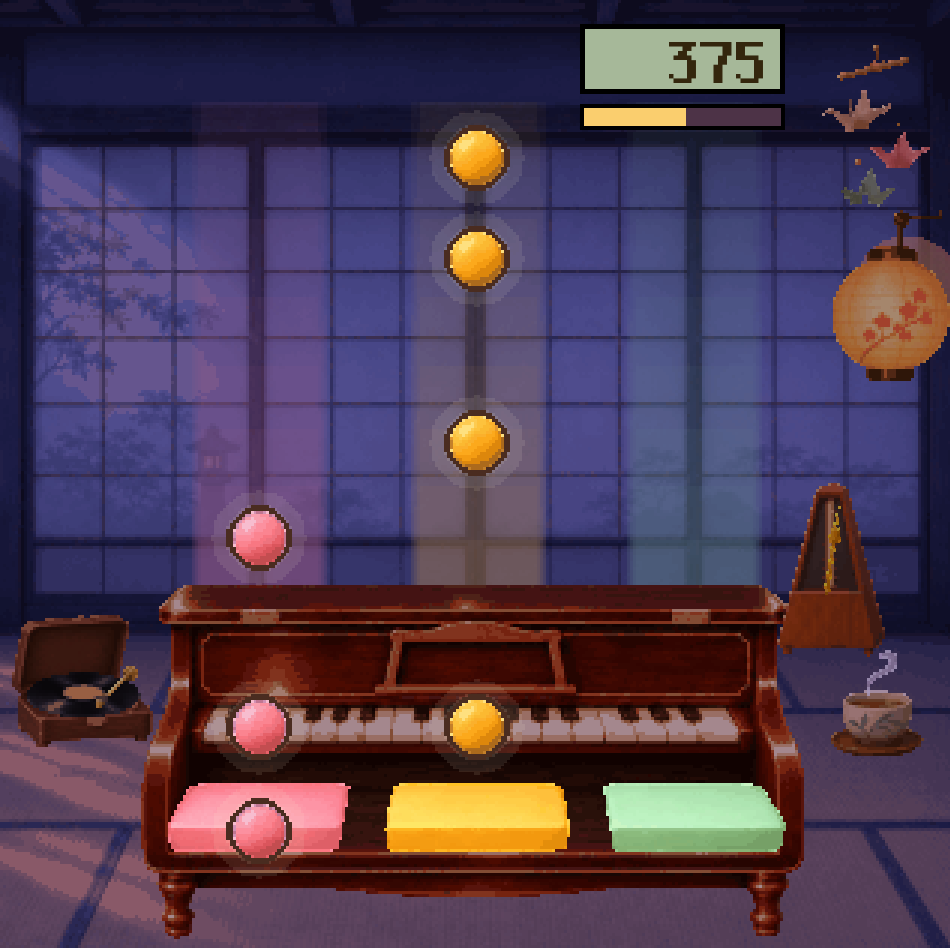
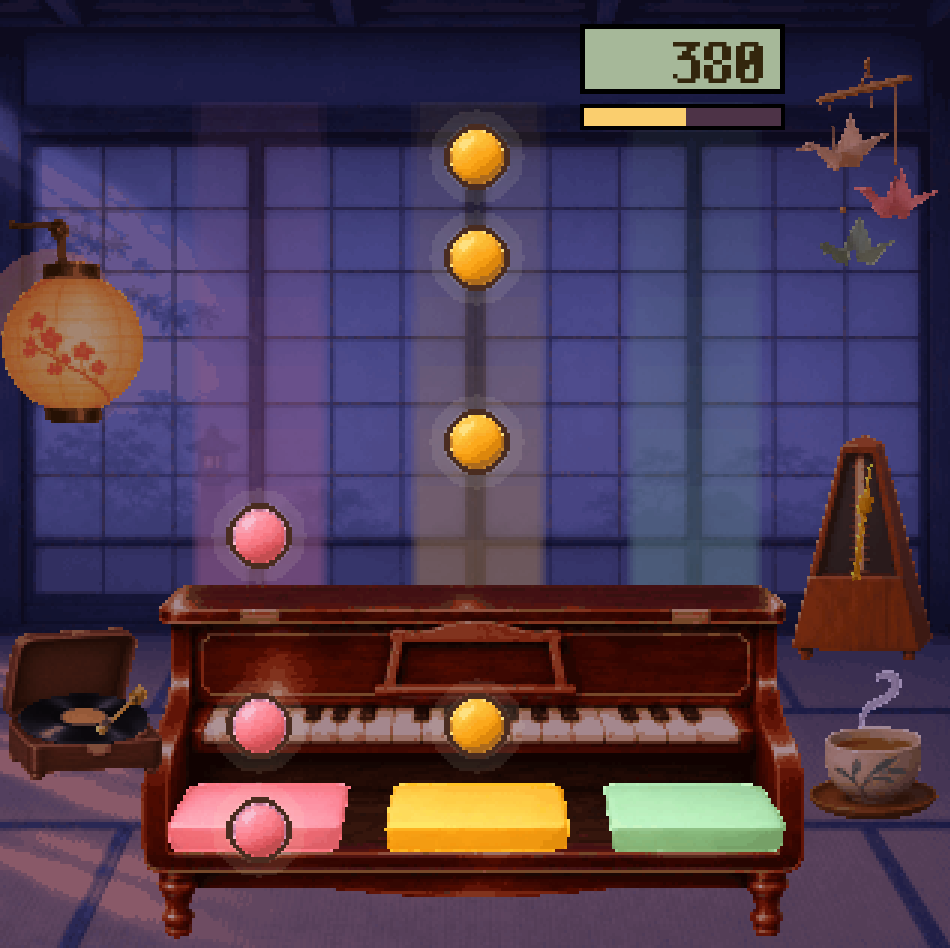
Tomo Tunes world 2: the ornaments re-placed, enlarged and moving plainly on the beat (the user: better distributed, more rhythm, more quality, like the xylophone's)

diff --git a/tools/design/tunes_world.py b/tools/design/tunes_world.py
@@ -26,9 +26,19 @@ SRC = OUT = ''                        # (set per world in build())
 WORLDS = {
     'xylophone': dict(src='round1', frame='xylophone', bars='bar', even=True, wall_cut=1172, soft=[],
                       layers=['toy_kokeshi_bench', 'toy_kokeshi', 'toy_daruma', 'toy_ball', 'toy_maneki', 'toy_maneki_paw', 'toy_top', 'mallet']),
-    'piano': dict(src='round2', frame='piano', bars='key', even=False, wall_cut=0, soft=['lantern_glow', 'tea_steam'],
+    'piano': dict(src='round2', frame='piano', bars='key', even=False, wall_cut=0, colours=28, soft=['lantern_glow', 'tea_steam'],
                   layers=['lantern_glow', 'record_player', 'record', 'record_arm', 'tea', 'tea_steam', 'metronome', 'metronome_needle',
-                          'cranes_bar', 'crane_1', 'crane_2', 'crane_3', 'lantern']),
+                          'cranes_bar', 'crane_1', 'crane_2', 'crane_3', 'lantern'],
+                  # The ornaments re-placed and enlarged by us (the user, 2026-11-13: "ornaments should be better
+                  # distributed, move more at the rhythm and with a bit more of quality, targeting the xylophone
+                  # levels": as painted they were small and all but one on the right). A group moves as one:
+                  # (its layers, scale, which point of the group is pinned, where that point goes in painted px,
+                  # mirrored). Bigger = more art pixels each, so more detail.
+                  groups=[(['lantern', 'lantern_glow'], 1.2, 'top-left', (0, 400), True),          # to the left wall
+                          (['cranes_bar', 'crane_1', 'crane_2', 'crane_3'], 1.3, 'top-right', (1892, 0), False),
+                          (['metronome', 'metronome_needle'], 1.3, 'bottom-centre', (1722, 1322), False),
+                          (['tea', 'tea_steam'], 1.4, 'bottom-centre', (1745, 1640), False),
+                          (['record_player', 'record', 'record_arm'], 1.15, 'bottom-left', (4, 1560), False)]),
 }
 W, H = 317, 316                       # 950 x 948 on screen at x3
 OUTLINE = (74, 44, 32)
@@ -37,9 +47,32 @@ BAR_W = 62                            # art px: the three bars at ONE size (the 
 LANE_TOP, LANE_BOTTOM = 34, 196       # art px: the wall above the tray
 
 
-def small(name, wall_cut=0, cut=0.5):
+def placed(groups):
+    """the layers of the re-placed groups, each as a painted-size RGBA image at its new place"""
+    out = {}
+    for names, scale, pin, to, mirror in groups:
+        ims = {n: Image.open(os.path.join(SRC, n + '.png')).convert('RGBA') for n in names}
+        if mirror:
+            ims = {n: im.transpose(Image.FLIP_LEFT_RIGHT) for n, im in ims.items()}
+        boxes = [im.getbbox() for im in ims.values()]
+        x0, y0, x1, y1 = min(b[0] for b in boxes), min(b[1] for b in boxes), max(b[2] for b in boxes), max(b[3] for b in boxes)
+        ax = {'left': x0, 'centre': (x0 + x1) / 2, 'right': x1}[pin.split('-')[1]]
+        ay = {'top': y0, 'bottom': y1}[pin.split('-')[0]]
+        for n, im in ims.items():
+            a = np.asarray(im).astype(np.float32) / 255.0
+            pre = Image.fromarray((np.concatenate([a[..., :3] * a[..., 3:4], a[..., 3:4]], 2) * 255).astype(np.uint8), 'RGBA')
+            big = pre.resize((int(round(im.width * scale)), int(round(im.height * scale))), Image.LANCZOS)
+            canvas = Image.new('RGBA', im.size, (0, 0, 0, 0))
+            canvas.paste(big, (int(round(to[0] - ax * scale)), int(round(to[1] - ay * scale))))
+            c = np.asarray(canvas).astype(np.float32) / 255.0
+            al = c[..., 3:4]
+            out[n] = np.concatenate([np.where(al > 0.001, c[..., :3] / np.maximum(al, 0.001), 0.0), al], 2)
+    return out
+
+
+def small(name, wall_cut=0, cut=0.5, given=None):
     """the layer at the game's size: premultiplied box filter, hard alpha (a pixel is in from `cut` of full)"""
-    im = np.asarray(Image.open(os.path.join(SRC, name + '.png')).convert('RGBA')).astype(np.float32) / 255.0
+    im = given if given is not None else np.asarray(Image.open(os.path.join(SRC, name + '.png')).convert('RGBA')).astype(np.float32) / 255.0
     if wall_cut:                                   # (world 1: the frame's misaligned bands on the wall, above this row)
         im = im.copy(); im[:wall_cut, :, 3] = 0.0
     a = im[..., 3:4]
@@ -142,8 +175,9 @@ def build(world, cfg):
     os.makedirs(OUT, exist_ok=True)
     frame = cfg['frame']
     got = {'room': small('room'), frame: small(frame, cfg['wall_cut'])}
+    moved = placed(cfg.get('groups', []))
     for n in cfg['layers']:
-        got[n] = small(n, cut=0.22 if n in cfg['soft'] else 0.5)
+        got[n] = small(n, cut=0.22 if n in cfg['soft'] else 0.5, given=moved.get(n))
     for lane in ('low', 'mid', 'high'):
         for lit in ('', '_lit'):
             got[f'bar_{lane}{lit}'] = small(f"{cfg['bars']}_{lane}{lit}")
@@ -170,7 +204,7 @@ def build(world, cfg):
     for n, (rgb, mask) in got.items():
         # each layer keeps its own few colours (a palette shared by the whole world went to the room's browns and
         # turned the pink and mint bars orange): the room 56, a toy or a bar 20, a note 12
-        k = 56 if n == 'room' else (12 if n.startswith('note_') else 20)
+        k = 56 if n == 'room' else (12 if n.startswith('note_') else cfg.get('colours', 20))
         own = Image.fromarray((rgb[mask][None] * 255).astype(np.uint8), 'RGB').quantize(k, method=Image.MEDIANCUT, dither=Image.NONE)
         q = np.asarray(Image.fromarray((rgb * 255).astype(np.uint8), 'RGB').quantize(palette=own, dither=Image.NONE).convert('RGB'))
         if n.startswith('note_'):

diff --git a/docs/tomo_tunes.md b/docs/tomo_tunes.md
@@ -216,6 +216,7 @@ Added 2026-11-13 (the user, after more play: "how the notes of the lead coincide
 | 2026-11-13 | 2A is in (Plink Plonk, the toy piano, 91.5 s, 99.4 BPM; the user loved the take, "more jazzy"). Two things the tool learned from it. SWING: the tune's own notes gave a grid that held only 54% of them, because the off-beat sits at 0.65 of the beat, not 0.5. The tool now also tracks the band's beats through the song (`band_beats()`) and puts the off-beat where the tune puts it (`swing_grid()`); it takes that grid when it fits clearly better (2A: 81%), and keeps the tune's own grid otherwise (1A, 1B unchanged). CHORDS: `second_pitch()` hears a second note at an onset; on the beats it becomes a second note in another lane (`WITH_CHORDS`, worlds 2 and 5): easy one at most every 4 beats, normal every 2, hard all. A FIRST TRY, to judge by ear: on 1A, which has no chords, it hears 15 false ones in 97 beat notes; on 2A 47 in 124. 2A rates as busy as a C or D song (normal 3.2 notes a second): the user decides its slot after playing. Its room is world 1's until world 2's art arrives; its wrong notes are a toy piano's (`tune_wrong.py`) |
 | 2026-11-13 | After 2A on the phone (the user): (1) "dissonant notes should correspond to each instrument": from world 2 on the wrong notes are cut from the REAL instrument, the cleanest single note of a song's lead stem in each lane, with itself a semitone up (`FROM_STEM` in `tune_wrong.py`); the xylophone keeps its approved synthesised ones. (2) "easy mode does not correspond a lot with the actual notes ... medium I liked more": in a syncopated tune (more notes between the beats than on them) easy now plays the notes the tune LANDS on (the ones that ring longest), on the beat or between, never closer than 0.8 of a beat; other tunes keep the beats (1A, 1B). Easy also takes only the clear chords (9 in 2A, were 24), since the detector hears false ones |
 | 2026-11-13 | World 2's art (the toy piano): mock-up v3 approved (a blue-hour tatami room, a dark polished piano, a record player, tea, the metronome, paper cranes, a lantern; the user: "not everything has to be childish, xylophone will be the most childish one"), delivered as 25 layers in `docs/mockups/tomo_tunes/round2/`, keys equal and in place as asked. `tunes_world.py` now builds every world from one table (`WORLDS`); the game builds a song's room from its world's `layout.json` (`_build_world()`), moves its things by name (`_toys()`, `PIVOTS`), and shifts the score band where the art hangs something in the top right corner (`HUD_SHIFT`: the piano's cranes). In the code, not on the phone until the user's OK. Screens: `docs/mockups/tomo_tunes/in_game_world2_play.png`, `_miss.png` |
+| 2026-11-13 | World 2 on the phone (the user): "ornaments should be better distributed, move more at the rhythm and with a bit more of quality, targeting the xylophone levels". As painted they were small and all but one on the right. The tool now re-places and enlarges groups of layers (`groups` in `WORLDS`: the lantern mirrored to the left wall, the cranes, metronome, tea and record player 1.15 to 1.4 times bigger, 28 colours each), and in the game everything keeps the beat plainly: the cranes hop in turn, the metronome, the tea and the record player squash on the beat, the lantern swings and its light pulses |
 
 ## 6d. How each new song is made (the workflow)
 

diff --git a/docs/handbook.md b/docs/handbook.md
@@ -150,6 +150,11 @@ first mock-up: "the aesthetics have to match first world but not be too similar,
 vary"). Name the place and the palette in the brief, and check the instrument reads as itself.
 Not every world is childish: world 1 is the nursery, and from world 2 on the rooms grow up with
 the music (the user, on world 2's second mock-up: "not everything has to be childish").
+A world's ornaments must match world 1's toys: about as big (35 to 60 art pixels), spread on BOTH
+sides of the lanes, each moving plainly on the beat (hop, squash, swing). If the painting has
+them small or bunched, re-place and enlarge them with `groups` in `WORLDS` (the tool scales from
+the big painting, so bigger means more detail), and ask the next designer for it up front.
+
 Ask the next worlds' designer for **three bars of the same size and three lanes of the same
 width**: world 1 needed the tool to even them out.
 
